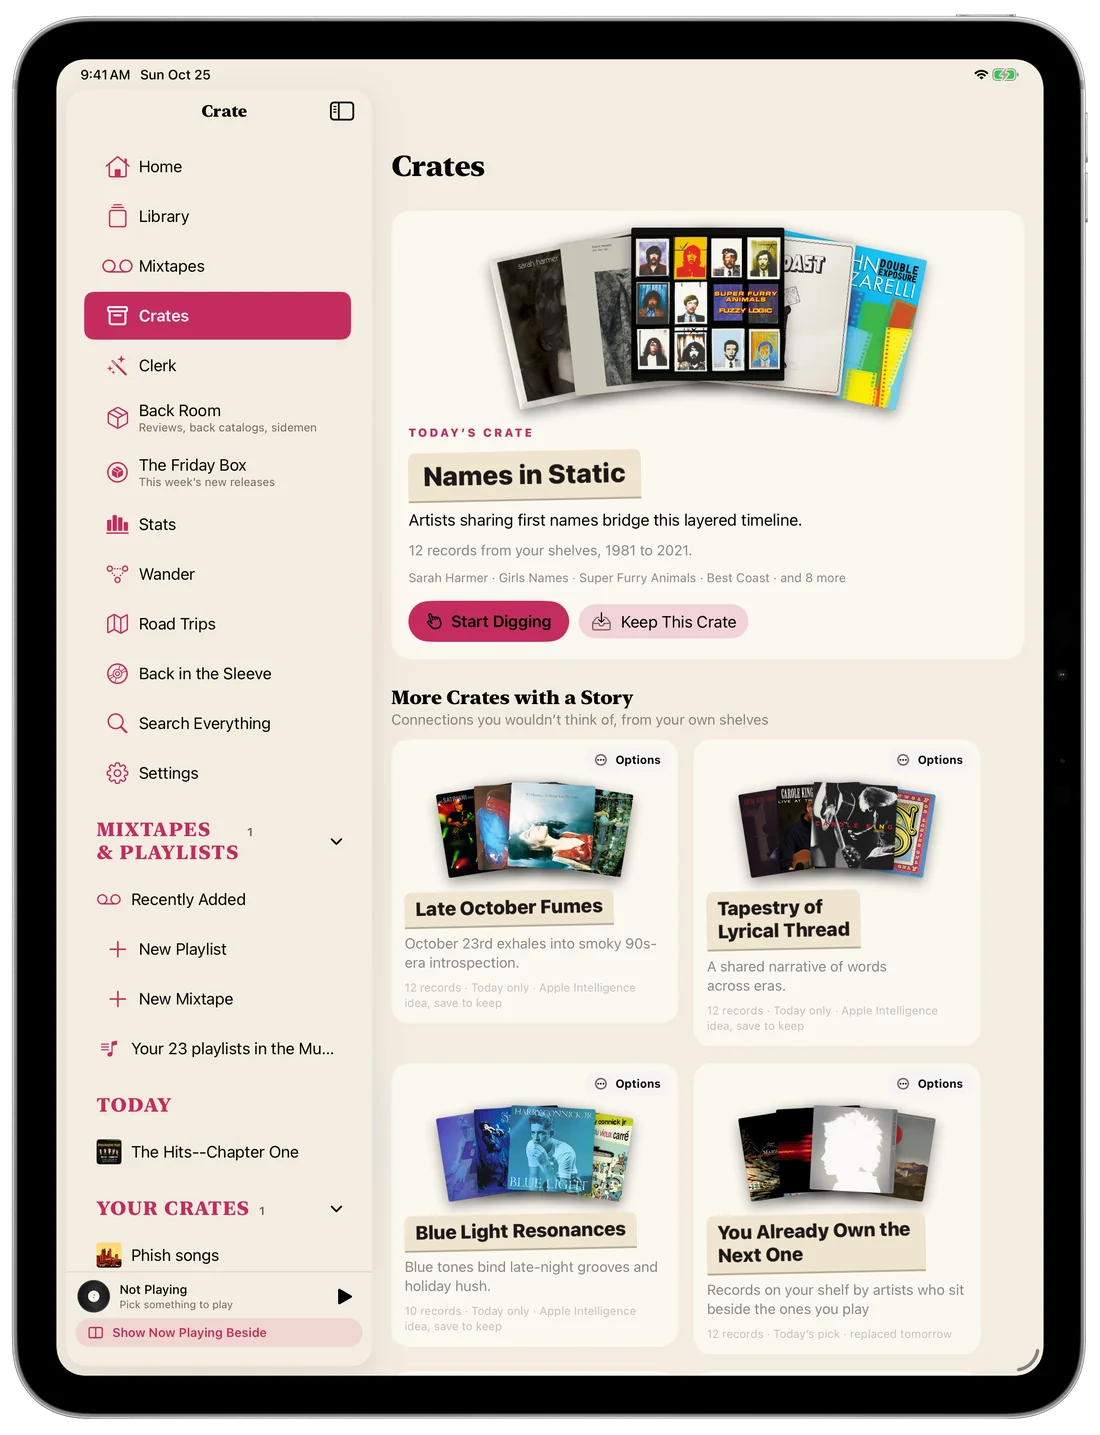
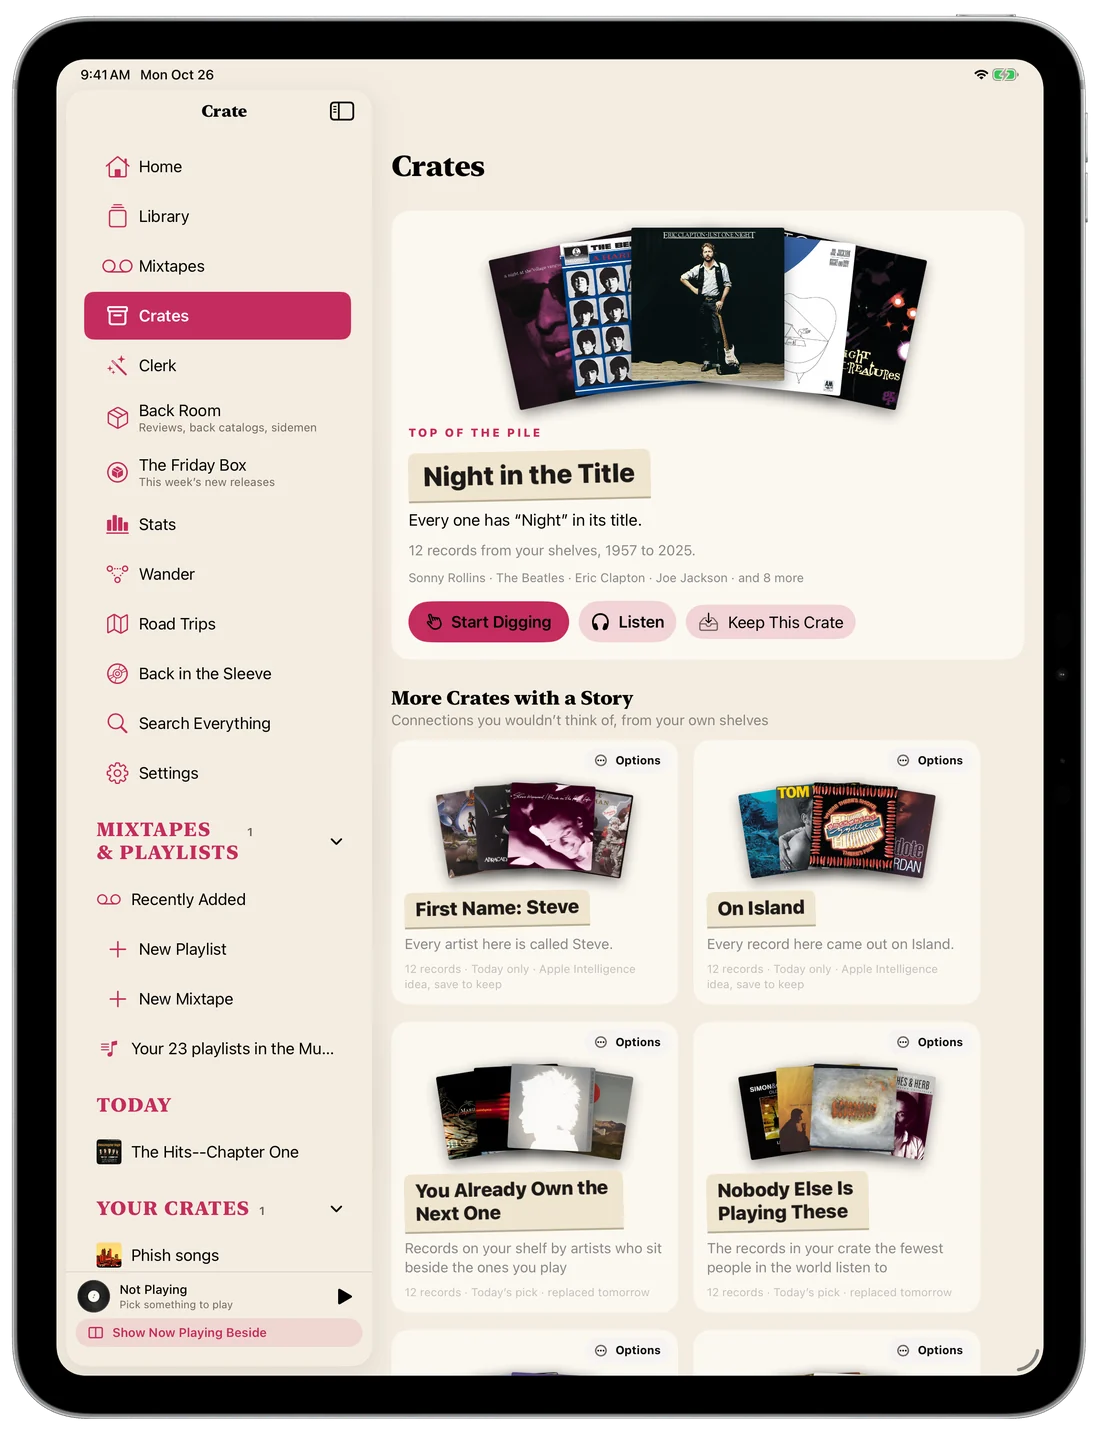
Crates: Top of the Pile, listening ways

diff --git a/index.html b/index.html
@@ -73,13 +73,13 @@
     <div class="row flip">
       <div class="copy">
         <div class="label">Dig the crate</div>
-        <h2>A crate of your own records, every day.</h2>
-        <p>Each day Crate pulls twelve of your records together by a thread you wouldn't have thought of: artists who share a first name, records turning thirty this year, the ones almost nobody else is playing. Apple Intelligence thinks up new ones every morning.</p>
-        <p class="soft">Start digging and each record comes out to face you, with why it's in the crate and thirty seconds of it playing. Keep it or put it back. At the end, play the ones you kept, or save them as a crate of your own.</p>
+        <h2>Crates of your own records.</h2>
+        <p>Crate pulls twelve of your records together by a thread you can see at a glance: the same label, the same hometown, one word in every title, records turning thirty this year, the ones almost nobody else is playing. New crates turn up every day, and Apple Intelligence names them.</p>
+        <p class="soft">Start digging and each record comes out to face you, with why it's in the crate and thirty seconds of it playing. Keep it or put it back. Or just listen: a crate is records, not a playlist, so flip through one song from each, hear three from each and then the next three, or play them whole.</p>
       </div>
       <div class="devices">
-        <picture><source srcset="img/ipad-crates-dark.webp" media="(prefers-color-scheme: dark)"><img class="pad" src="img/ipad-crates.webp" width="1100" height="1435" loading="lazy" alt="Crates on iPad: today's crate, Names in Static, its records fanned under a hand-lettered divider card, with more crates below"></picture>
-        <picture><source srcset="img/iphone-cratedig-dark.webp" media="(prefers-color-scheme: dark)"><img class="phone" src="img/iphone-cratedig.webp" width="560" height="1143" loading="lazy" alt="Digging through a crate on iPhone: Sarah Harmer's All Of Our Names pulled out, with why it's in the crate, thirty seconds playing, and Keep or Put It Back"></picture>
+        <picture><source srcset="img/ipad-crates-dark.webp" media="(prefers-color-scheme: dark)"><img class="pad" src="img/ipad-crates.webp" width="1100" height="1435" loading="lazy" alt="Crates on iPad: Night in the Title at the top of the pile, every record with Night in its title fanned under a hand-lettered divider card, with more crates below"></picture>
+        <picture><source srcset="img/iphone-cratedig-dark.webp" media="(prefers-color-scheme: dark)"><img class="phone" src="img/iphone-cratedig.webp" width="560" height="1143" loading="lazy" alt="Digging through a crate on iPhone: Sonny Rollins' A Night at the Village Vanguard pulled out, with why it's in the crate, thirty seconds playing, and Keep or Put It Back"></picture>
       </div>
     </div>
   </section>
@@ -270,7 +270,7 @@
       <div class="copy">
         <div class="label">On your home screen</div>
         <h2>Drop the needle without opening the app.</h2>
-        <p>Put today's record, today's crate, the records that suit right now, or one of your mixtapes on your home screen. Each one has a <strong>Play button that works right there</strong>: tap it and the music starts, and Crate stays out of the way.</p>
+        <p>Put today's record, a crate, the records that suit right now, or one of your mixtapes on your home screen. Each one has a <strong>Play button that works right there</strong>: tap it and the music starts, and Crate stays out of the way.</p>
         <div class="nums" aria-label="The widgets">
           <div class="num"><b>7</b><span>widgets, small to large</span></div>
           <div class="num"><b>Play</b><span>straight from the home screen</span></div>
